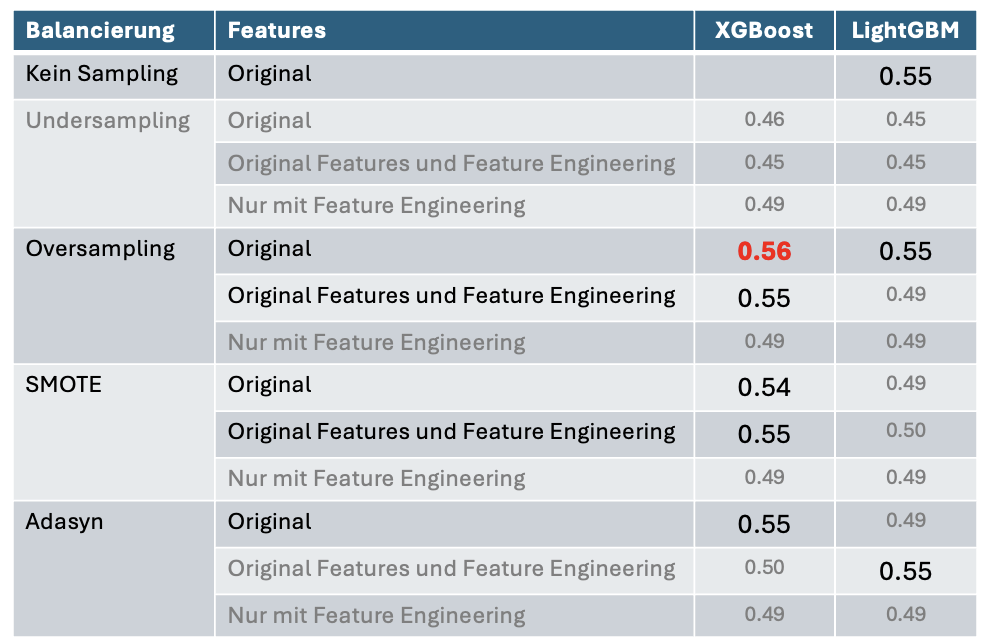
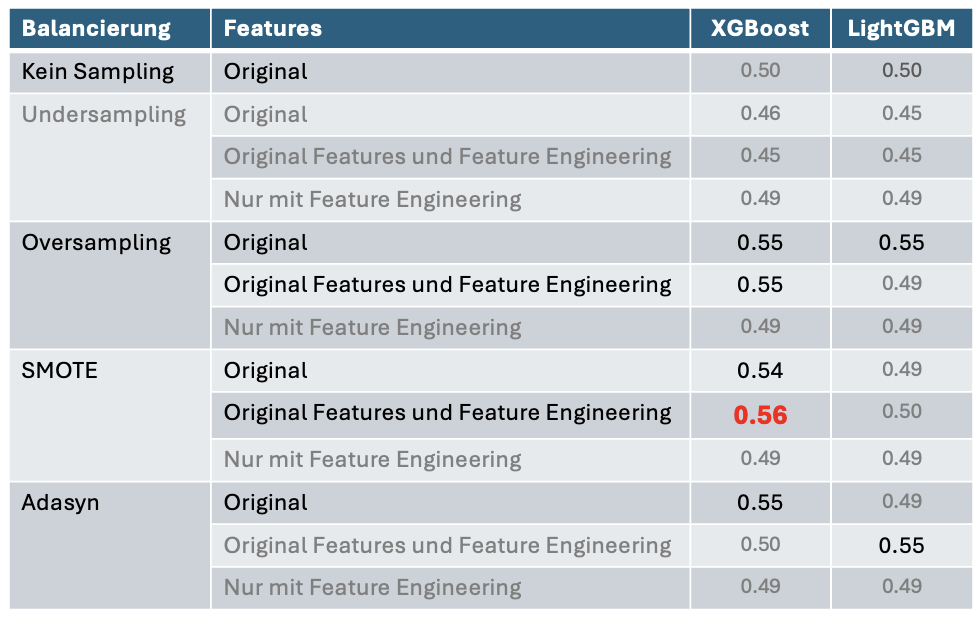
Edit content

Changed region(s): [[0.0, 0.3065, 1.0, 0.7661], [0.0, 0.7968, 1.0, 1.0], [0.0, 0.0, 1.0, 0.2758]]

diff --git a/index.md b/index.md
@@ -356,7 +356,7 @@ Im Post-Processing durchlaufen diese Merkmale weitere Schichten, um spezifische 
 
 <img src="assets/resultate_alle.png" alt="gnn" class="resultate_alle" class="hover-zoom" style="float: left; margin-right: 20px; width: 200px;">
 
-Lorem ipsum dolor sit amet, consetetur sadipscing elitr, sed diam nonumy eirmod tempor invidunt ut labore et dolore magna aliquyam erat, sed diam voluptua. At vero eos et accusam et justo duo dolores et ea rebum. Stet clita kasd gubergren, no sea takimata sanctus est Lorem ipsum dolor sit amet. Lorem ipsum dolor sit amet, consetetur sadipscing elitr, sed diam nonumy eirmod tempor invidunt ut labore et dolore magna aliquyam erat, sed diam voluptua. At vero eos et accusam et justo duo dolores et ea rebum. Stet clita kasd gubergren, no sea takimata sanctus est Lorem ipsum dolor sit amet.
+Die Grafik fasst die Ergebnisse der besten Modelle übersichtlich zusammen. Alle Modelle, außer den GNN-Modellen, wurden sowohl mit unbalancierten als auch mit balancierten Daten trainiert. Das GNN-Modell schnitt am besten ab und erreichte einen F1-Score von 0,60. Bemerkenswert ist, dass das nicht graphbasierte Modell XGBoost, trainiert mit nach der SMOTE-Methode gesampelten Daten, mit einem F1-Score von 0,56 fast gleichauf lag. Die Ergebnisse sind solide, lassen aber viel Spielraum für Verbesserungen. Unsere Arbeit bietet einen ersten Einstieg in dieses Thema. Die Umsetzung bleibt ausbaufähig; konkrete Verbesserungsvorschläge finden sich im Kapitel „Outlook“.
 
 
 
@@ -364,12 +364,12 @@ Lorem ipsum dolor sit amet, consetetur sadipscing elitr, sed diam nonumy eirmod 
 
 <img src="assets/resultate_nichtgraphbasiert.png" alt="resultate_nichtgraphbasiert" class="hover-zoom" style="float: right; margin-left: 20px; width: 200px;">
 
-Lorem ipsum dolor sit amet, consetetur sadipscing elitr, sed diam nonumy eirmod tempor invidunt ut labore et dolore magna aliquyam erat, sed diam voluptua. At vero eos et accusam et justo duo dolores et ea rebum. Stet clita kasd gubergren, no sea takimata sanctus est Lorem ipsum dolor sit amet. 
+Die nicht-grafischen Modelle erreichen F1-Scores bis zu 0.56. Besonders XGBoost sticht hervor, da es oft über 0.5 liegt – ein Zeichen, dass das Modell tatsächlich lernt. Mit der Sampling-Methode SMOTE, den Originalmerkmalen und den manuell entwickelten Merkmalen, basierend auf den EDA-Erkenntnissen, erzielten wir das beste Ergebnis.
 
 <img src="assets/cf_ngb.png" alt="cf_ngb" class="hover-zoom" style="display: block; margin: 10px auto; width: 300px;">
 
-Lorem ipsum dolor sit amet, consetetur sadipscing elitr, sed diam nonumy eirmod tempor invidunt ut labore et dolore magna aliquyam erat, sed diam voluptua. At vero eos et accusam et justo duo dolores et ea rebum. Stet clita kasd gubergren, no sea takimata sanctus est Lorem ipsum dolor sit amet.
-
+Die Grafik zeigt die Confusion Matrix des besten Modells, XGBoost mit SMOTE. Durch das Sampling entstanden zahlreiche zusätzliche betrügerische Transaktionen. Das Modell erkennt rund 28 Tausend legale Transaktionen als betrügerisch und 
+HIER FEHLT TEXT 
 
 
 ## Graph-basierte Modelle
@@ -378,15 +378,18 @@ Lorem ipsum dolor sit amet, consetetur sadipscing elitr, sed diam nonumy eirmod 
 
 <img src="assets/resultate_GFP.png" alt="resultate_GFP" class="hover-zoom" style="float: left; margin-right: 20px; width: 150px;">
 
-Lorem ipsum dolor sit amet, consetetur sadipscing elitr, sed diam nonumy eirmod tempor invidunt ut labore et dolore magna aliquyam erat, sed diam voluptua. At vero eos et accusam et justo duo dolores et ea rebum. Stet clita kasd gubergren, no sea takimata sanctus est Lorem ipsum dolor sit amet. Lorem ipsum dolor sit amet, consetetur sadipscing elitr, sed diam nonumy eirmod tempor invidunt ut labore et dolore magna aliquyam erat, sed diam voluptua. At vero eos et accusam et justo duo dolores et ea rebum. Stet clita kasd gubergren, no sea takimata sanctus est Lorem ipsum dolor sit amet.
+> Die Modelle mit den GFP Features ohne Sampling konnten noch nicht trainiert werden. Dies wird bis am 17.01. nachgeholt.
+Die Modelle mit GFP-Features lieferten nicht die erhofften besseren Ergebnisse. Nur die XGBoost-Modelle durchbrachen mit den Sampling-Methoden Oversampling und SMOTE die 0,50-Marke. Ein F1-Score von 0,51 bleibt jedoch unbefriedigend. Wir haben zwei Thesen: - Erstens könnten Fehler im Code zur Generierung der GFP-Features vorliegen, besonders bei der Datensortierung. GFP erfordert zwingend eine zeitliche Sortierung der Daten. Dies sollte dringend überprüft werden. 
+- Zweitens könnten die Sampling-Methoden die Mustererkennung beeinträchtigen. Die Features basieren auf der Graph-Struktur. Möglicherweise gelingt es den Sampling-Methoden nicht, diese erfolgreich nachzubilden. Diese These betrifft jedoch nur SMOTE und Adasyn, da Undersampling die Daten nicht verändert und Oversampling sie lediglich dupliziert.
 
 <img src="assets/cf_lightgbm_sampling.png" alt="cf_lightgbm_sampling" class="hover-zoom" style="display: block; margin: 10px auto; width: 300px;">
 
-Lorem ipsum dolor sit amet, consetetur sadipscing elitr, sed diam nonumy eirmod tempor invidunt ut labore et dolore magna aliquyam erat, sed diam voluptua. At vero eos et accusam et justo duo dolores et ea rebum. Stet clita kasd gubergren, no sea takimata sanctus est Lorem ipsum dolor sit amet.
+Die Confusion-Matrizen des Modells LightGBM zeigen klare Unterschiede. Mit der Sampling-Methode Adasyn sagt das Modell alle betrügerischen Transaktionen korrekt voraus, stuft jedoch zugleich alle legalen Transaktionen als betrügerisch ein. Bei SMOTE bleibt das Problem bestehen: Das Modell erkennt zwar einige betrügerische Transaktionen nicht, markiert aber immer noch die Hälfte der legalen Transaktionen fälschlich als betrügerisch. Undersampling und Oversampling liefern ähnliche Ergebnisse. Bei beiden Methoden klassifiziert das Modell nur etwa 10 bis 15 Prozent der legalen Transaktionen falsch.
 
 <img src="assets/cf_xgboost_sampling.png" alt="cf_xgboost_sampling" class="hover-zoom" style="display: block; margin: 10px auto; width: 300px;">
 
- Lorem ipsum dolor sit amet, consetetur sadipscing elitr, sed diam nonumy eirmod tempor invidunt ut labore et dolore magna aliquyam erat, sed diam voluptua. At vero eos et accusam et justo duo dolores et ea rebum. Stet clita kasd gubergren, no sea takimata sanctus est Lorem ipsum dolor sit amet.
+Die Confusion-Matrizen des Modells XGBoost weichen stark von denen von LightGBM ab. Ein wesentlicher Unterschied: XGBoost stuft deutlich mehr betrügerische Transaktionen fälschlicherweise als legal ein. Gleichzeitig klassifiziert es weniger legale Transaktionen irrtümlich als betrügerisch.
+
 
 
 ### GINe
@@ -395,7 +398,7 @@ Lorem ipsum dolor sit amet, consetetur sadipscing elitr, sed diam nonumy eirmod 
 
 Lorem ipsum dolor sit amet, consetetur sadipscing elitr, sed diam nonumy eirmod tempor invidunt ut labore et dolore magna aliquyam erat, sed diam voluptua. At vero eos et accusam et justo duo dolores et ea rebum. Stet clita kasd gubergren, no sea takimata sanctus est Lorem ipsum dolor sit amet. 
 
-<img src="assets/cf_lightgbm_sampling.png" alt="cf_lightgbm_sampling" class="hover-zoom" style="display: block; margin: 10px auto; width: 300px;">
+<img src="assets/cf_gnn.png" alt="cf_gnn" class="hover-zoom" style="display: block; margin: 10px auto; width: 300px;">
 
 Lorem ipsum dolor sit amet, consetetur sadipscing elitr, sed diam nonumy eirmod tempor invidunt ut labore et dolore magna aliquyam erat, sed diam voluptua. At vero eos et accusam et justo duo dolores et ea rebum. Stet clita kasd gubergren, no sea takimata sanctus est Lorem ipsum dolor sit amet.
 
